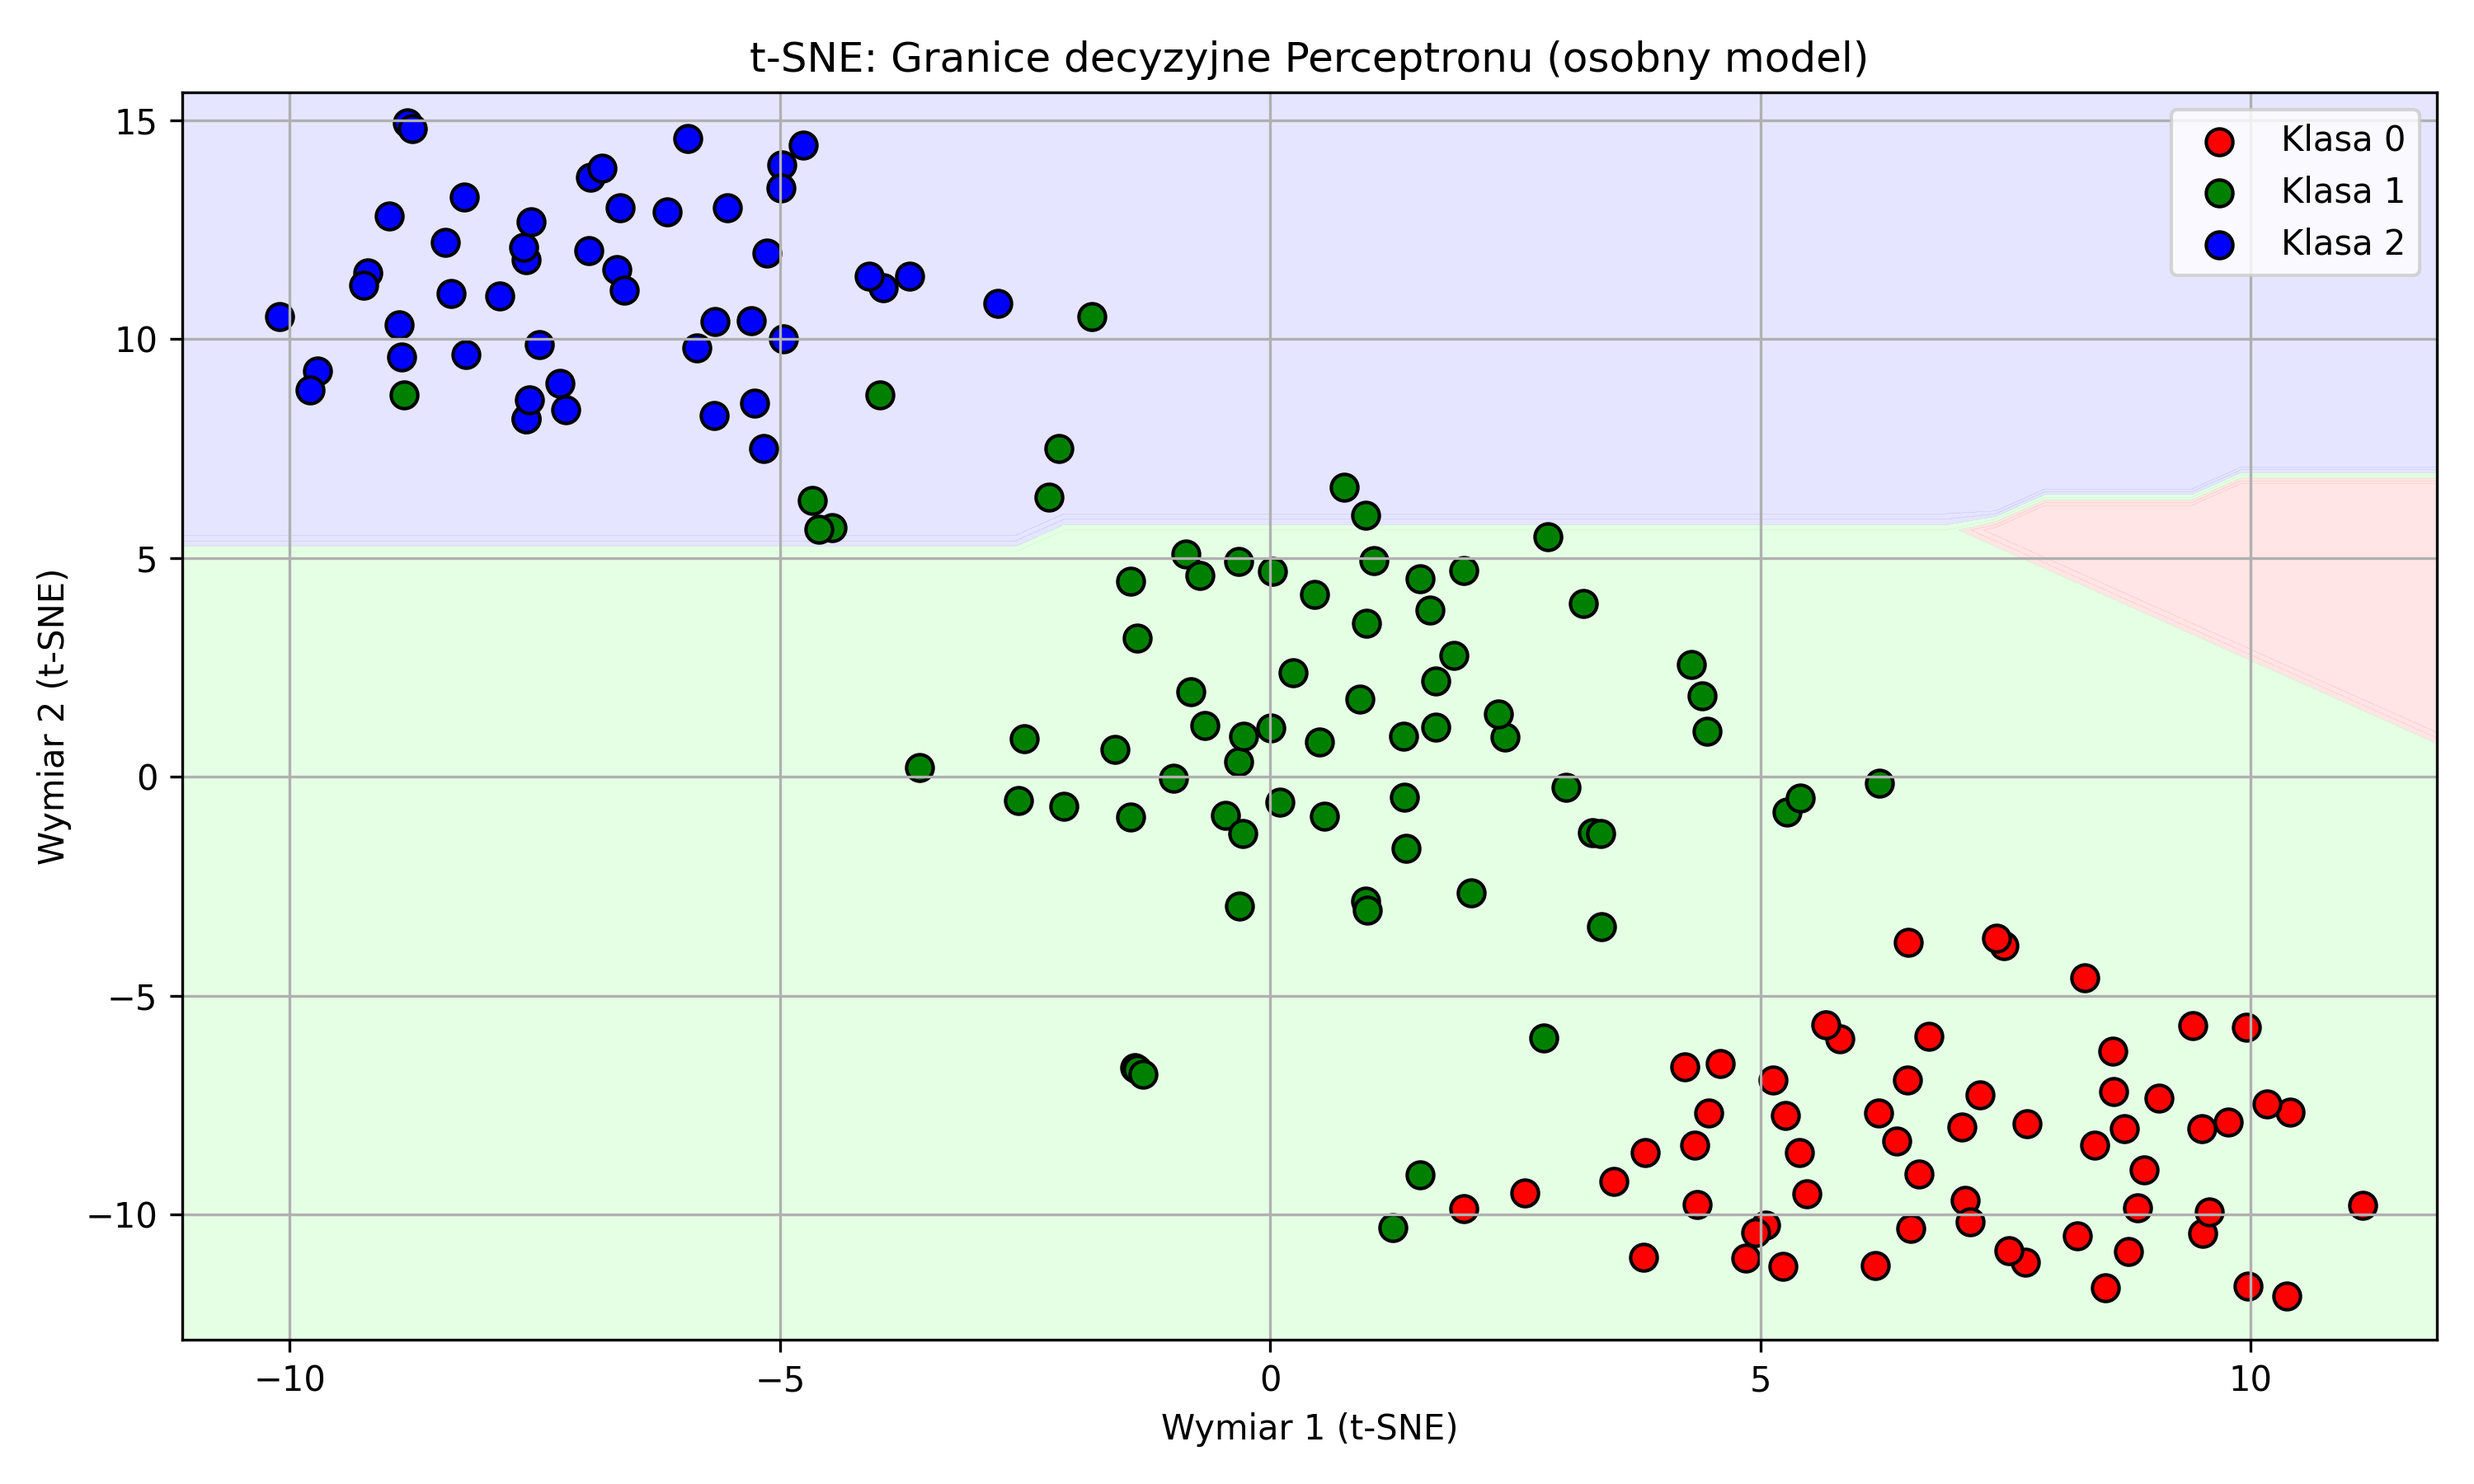
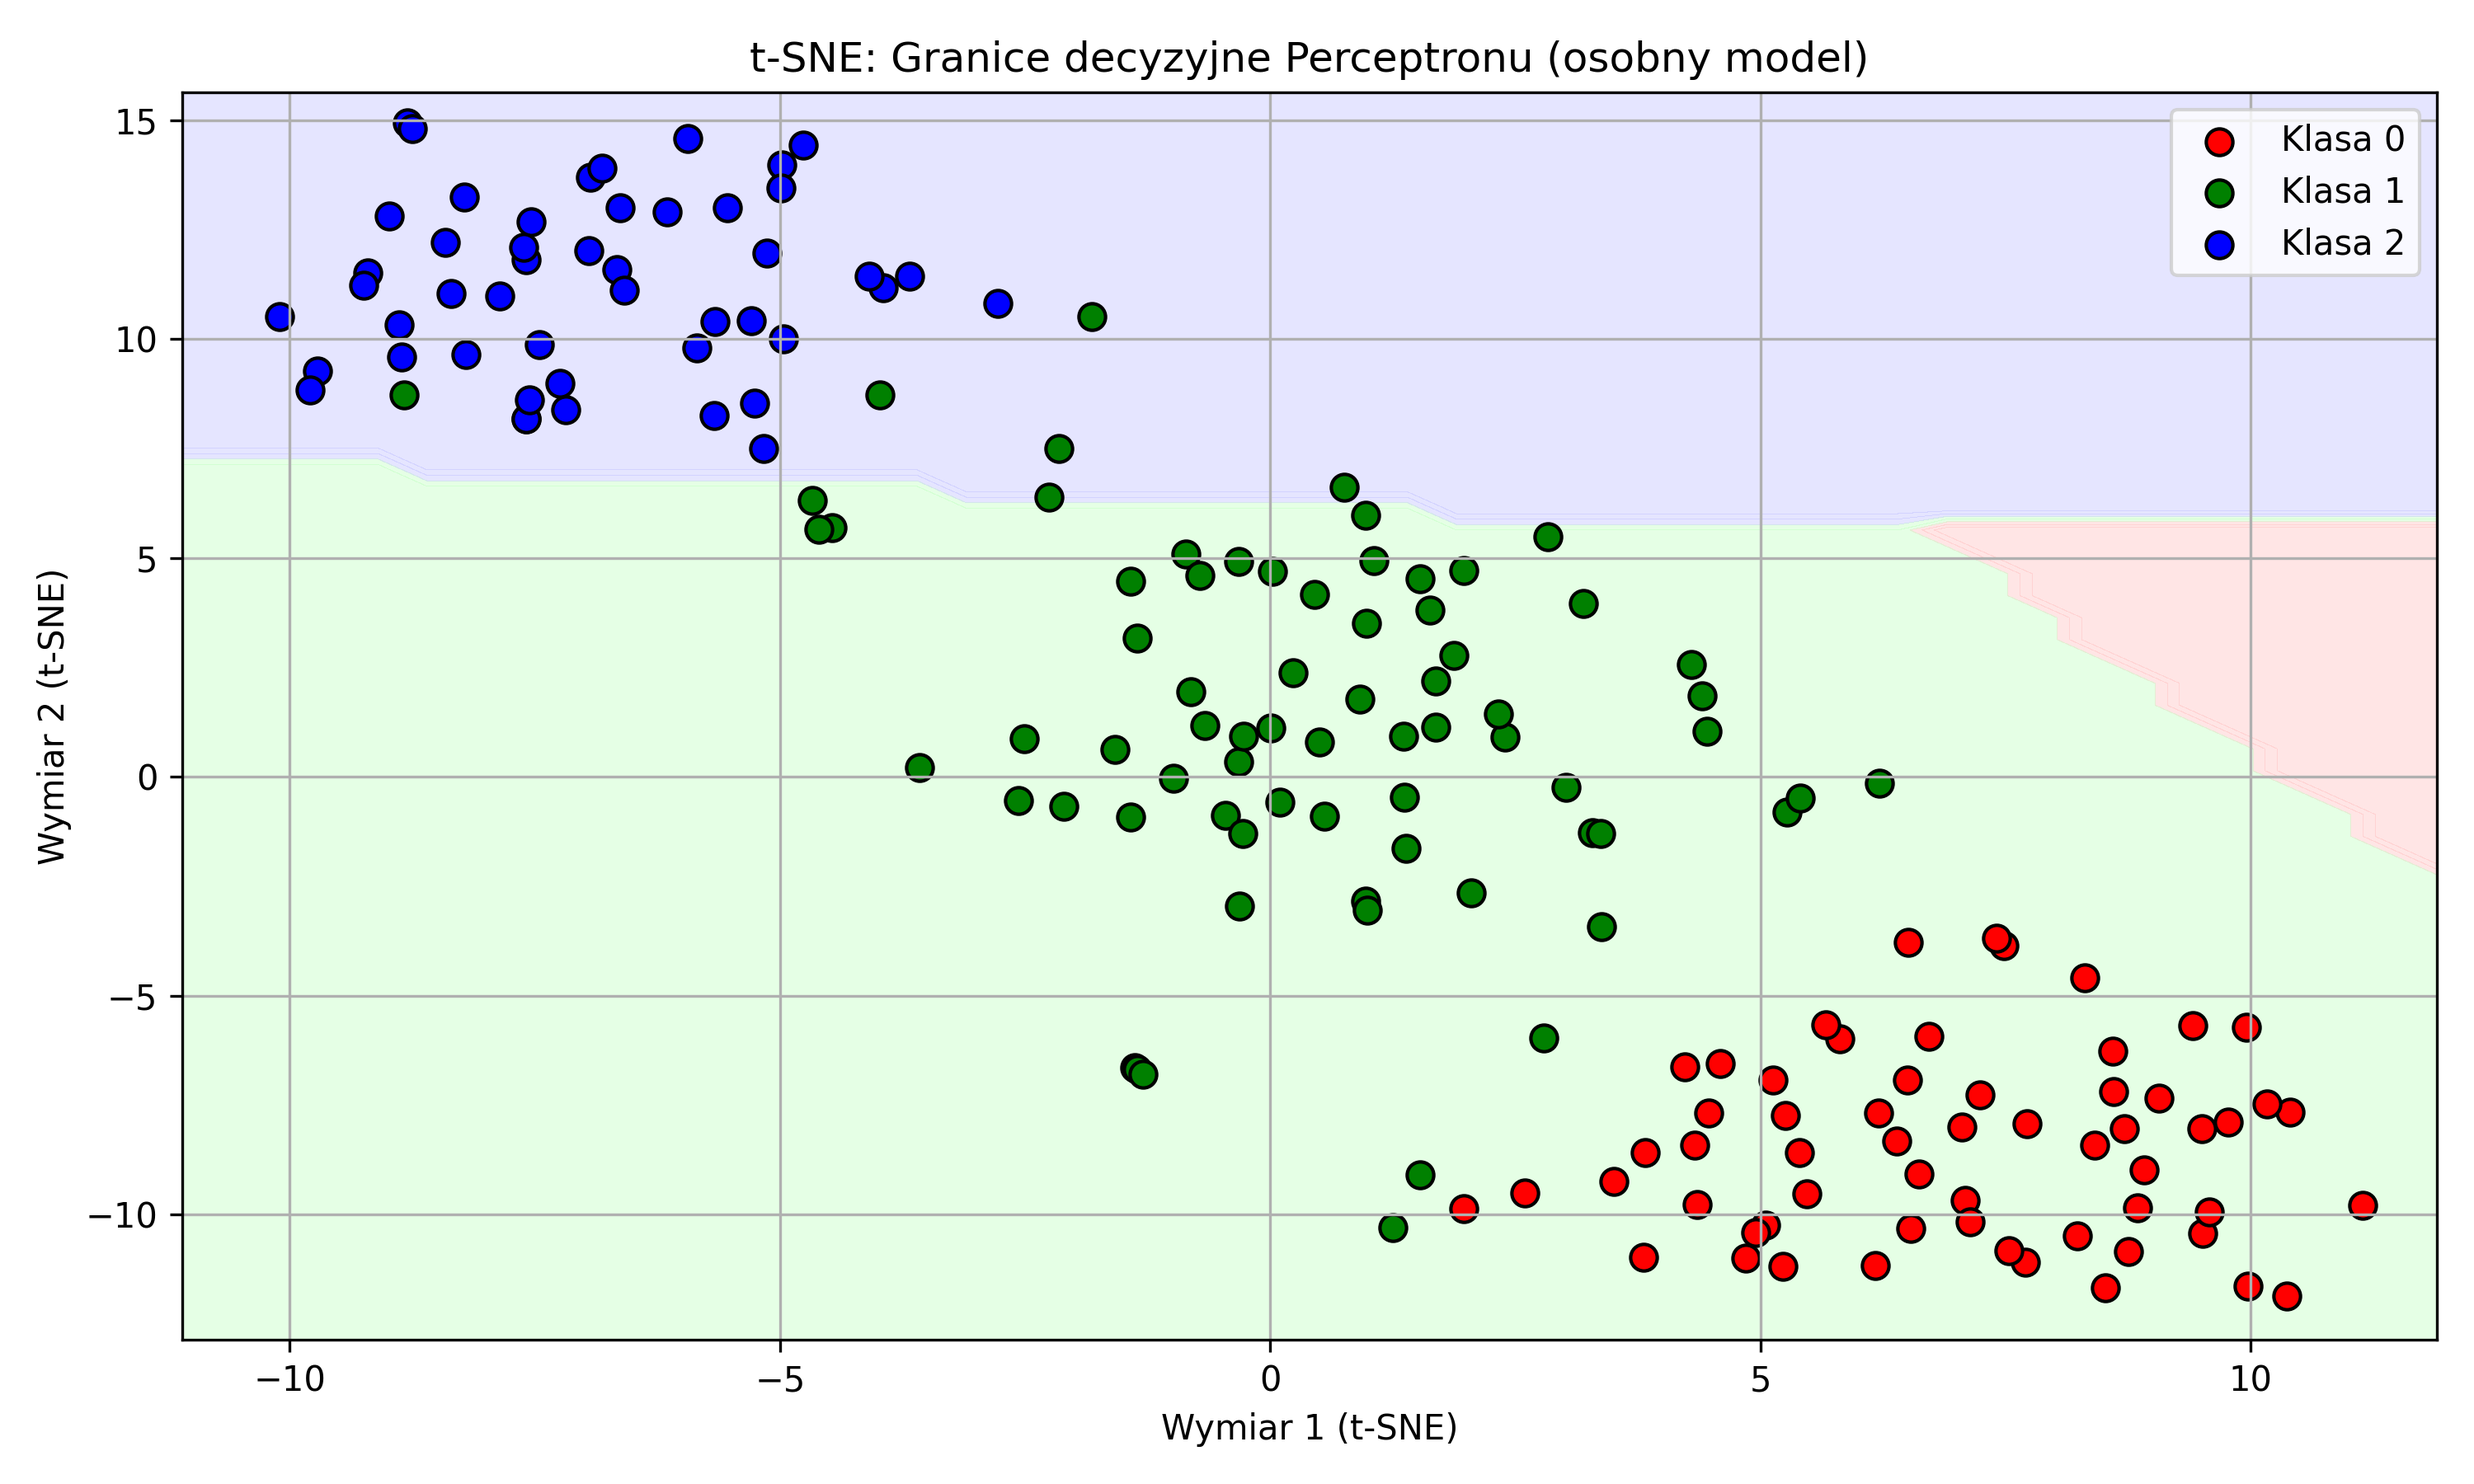
przed probnymi zmianami

Changed region(s): [[0.775, 0.3111, 0.992, 0.5911], [0.062, 0.3111, 0.589, 0.3733]]

diff --git a/ML_projektv3/utils.py b/ML_projektv3/utils.py
@@ -4,6 +4,10 @@ import matplotlib.pyplot as plt
 import pandas as pd
 import numpy as np
 
+from OvRClassifier import OvRClassifier
+from Perceptron import Perceptron
+
+
 def plot_tsne_decision_boundary_perceptron(X, y, perceptron_model, filename="tsne_perceptron.png", seed=512):
     X_embedded = TSNE(n_components=2, random_state=seed).fit_transform(X)
     X_embedded_df = pd.DataFrame(X_embedded, columns=["dim1", "dim2"])
@@ -16,8 +20,8 @@ def plot_tsne_decision_boundary_perceptron(X, y, perceptron_model, filename="tsn
     xx, yy = np.meshgrid(np.arange(x_min, x_max, h),
                          np.arange(y_min, y_max, h))
     grid_points = np.c_[xx.ravel(), yy.ravel()]
-
-    grid_pred = perceptron_model.predict(grid_points)
+    grid_df = pd.DataFrame(grid_points, columns=["dim1", "dim2"])
+    grid_pred = perceptron_model.predict(grid_df)
     Z = np.array(grid_pred).reshape(xx.shape)
 
     plt.figure(figsize=(10, 6))
@@ -144,7 +148,8 @@ def plot_tsne_decision_boundary_perceptron(X, y, base_model_class, model_kwargs=
                          np.arange(y_min, y_max, h))
     grid_points = np.c_[xx.ravel(), yy.ravel()]
 
-    grid_pred = model.predict(grid_points)
+    grid_df = pd.DataFrame(grid_points, columns=["dim1", "dim2"])
+    grid_pred = model.predict(grid_df)
     Z = np.array(grid_pred).reshape(xx.shape)
 
     plt.figure(figsize=(10, 6))
@@ -165,6 +170,77 @@ def plot_tsne_decision_boundary_perceptron(X, y, base_model_class, model_kwargs=
         )
 
     plt.title("t-SNE: Granice decyzyjne Perceptronu (osobny model)")
+    plt.xlabel("Wymiar 1 (t-SNE)")
+    plt.ylabel("Wymiar 2 (t-SNE)")
+    plt.legend()
+    plt.grid(True)
+    plt.tight_layout()
+    plt.savefig(filename, dpi=300)
+    plt.close()
+
+def plot_decision_boundaries(X, y,  filename, seed=512):
+    # dimension reduction
+    X_embedded = TSNE(n_components=2, random_state=seed).fit_transform(X)
+    X_embedded_df = pd.DataFrame(X_embedded, columns=["dim1", "dim2"])
+    model_emb = OvRClassifier(base_class=Perceptron, learning_rate=0.01, n_iter=1000)
+        # Create a grid of points covering the 2D t-SNE space
+    h = 0.5  # Step size for the grid
+    x_min, x_max = X_embedded[:, 0].min() - 1, X_embedded[:, 0].max() + 1
+    y_min, y_max = X_embedded[:, 1].min() - 1, X_embedded[:, 1].max() + 1
+    xx, yy = np.meshgrid(np.arange(x_min, x_max, h),
+                             np.arange(y_min, y_max, h))
+    grid_points = np.c_[xx.ravel(), yy.ravel()]
+    grid_df = pd.DataFrame(grid_points, columns=["dim1", "dim2"])
+
+        # Predict class labels for each point in the grid
+    grid_pred = model_emb.predict(grid_df)
+    Z = np.array(grid_pred).reshape(xx.shape)
+
+        # Plot
+    plt.figure(figsize=(10, 6))
+    cmap_light = ListedColormap(["#FFAAAA", "#AAFFAA", "#AAAAFF"])
+    cmap_bold = ["red", "green", "blue"]
+
+    plt.contourf(xx, yy, Z, alpha=0.3, cmap=cmap_light)
+
+    for class_value in np.unique(y):
+        idx = y == class_value
+        plt.scatter(
+            X_embedded_df.loc[idx, "dim1"],
+            X_embedded_df.loc[idx, "dim2"],
+            label=f"Klasa {class_value}",
+            c=cmap_bold[class_value],
+            edgecolor="k",
+            s=60
+        )
+
+    plt.xlabel("Wymiar 1 (t-SNE)")
+    plt.ylabel("Wymiar 2 (t-SNE)")
+    plt.legend()
+    plt.grid(True)
+    plt.tight_layout()
+    plt.savefig(filename, dpi=300)
+    plt.close()
+
+def plot_points(X, y, seed = 512):
+    X_embedded = TSNE(n_components=2, random_state=seed).fit_transform(X)
+    X_embedded_df = pd.DataFrame(X_embedded, columns=["dim1", "dim2"])
+
+    plt.figure(figsize=(10, 6))
+    cmap_light = ListedColormap(["#FFAAAA", "#AAFFAA", "#AAAAFF"])
+    cmap_bold = ["red", "green", "blue"]
+
+    for class_value in np.unique(y):
+        idx = y == class_value
+        plt.scatter(
+            X_embedded_df.loc[idx, "dim1"],
+            X_embedded_df.loc[idx, "dim2"],
+            label=f"Klasa {class_value}",
+            c=cmap_bold[class_value],
+            edgecolor="k",
+            s=60
+        )
+    plt.title(f"t-SNE: Granice decyzyjne k-NN (k={k}, p={p})")
     plt.xlabel("Wymiar 1 (t-SNE)")
     plt.ylabel("Wymiar 2 (t-SNE)")
     plt.legend()

diff --git a/ML_projektv3/main2.py b/ML_projektv3/main2.py
@@ -1,7 +1,7 @@
 
 from sklearn.datasets import load_wine
 from sklearn.model_selection import train_test_split
-from utils import compute_accuracy, precision, recall, f1_score, standard_scale, plot_tsne_decision_boundary_perceptron
+from utils import compute_accuracy, precision, recall, f1_score, standard_scale, plot_tsne_decision_boundary_perceptron, plot_points
 from OvRClassifier import OvRClassifier
 from Perceptron import Perceptron
 
@@ -31,8 +31,9 @@ print("Recall:", recall(y_test, y_pred, average='macro'))
 print("F1 Score:", f1_score(y_test, y_pred, average='macro'))
 
 from OvRClassifier import OvRClassifier
-plot_tsne_decision_boundary_perceptron(
-    X, y,
-    base_model_class=OvRClassifier,
-    model_kwargs={"base_class": Perceptron, "learning_rate": 0.01, "n_iter": 1000}
-)
+# plot_tsne_decision_boundary_perceptron(
+#     X, y,
+#     base_model_class=OvRClassifier,
+#     model_kwargs={"base_class": Perceptron, "learning_rate": 0.01, "n_iter": 1000}
+# )
+plot_points(X,y)
